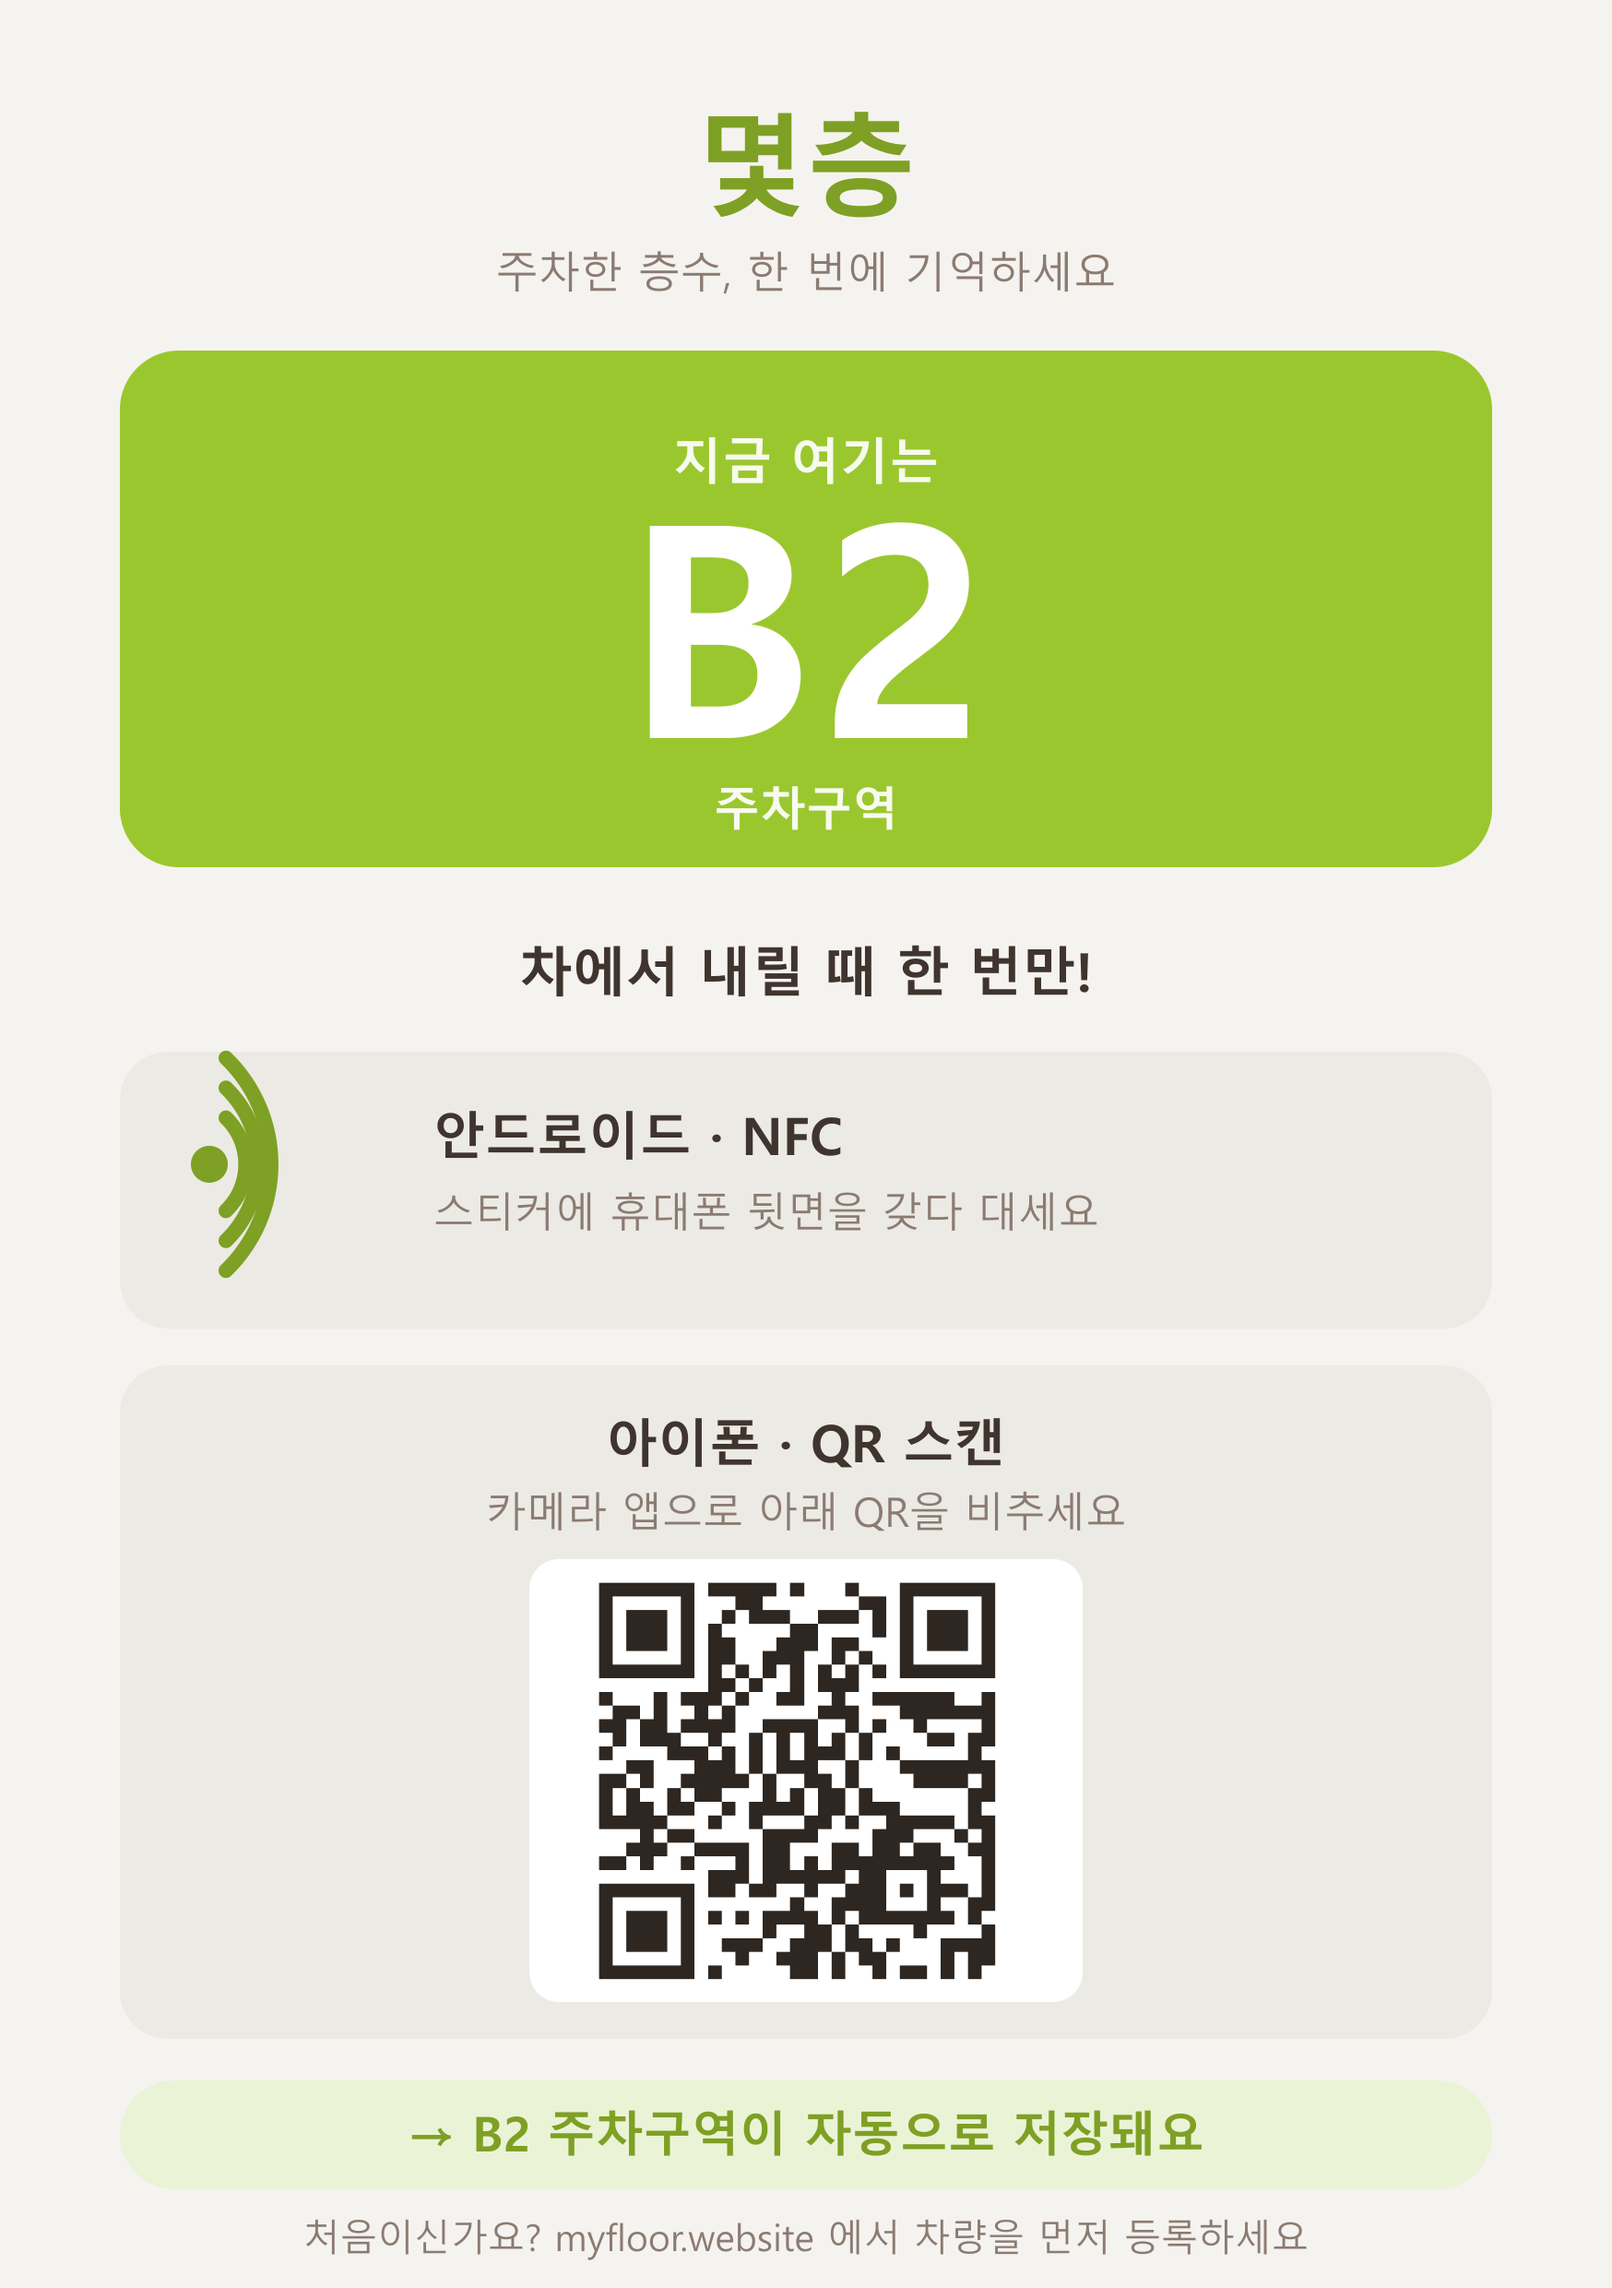
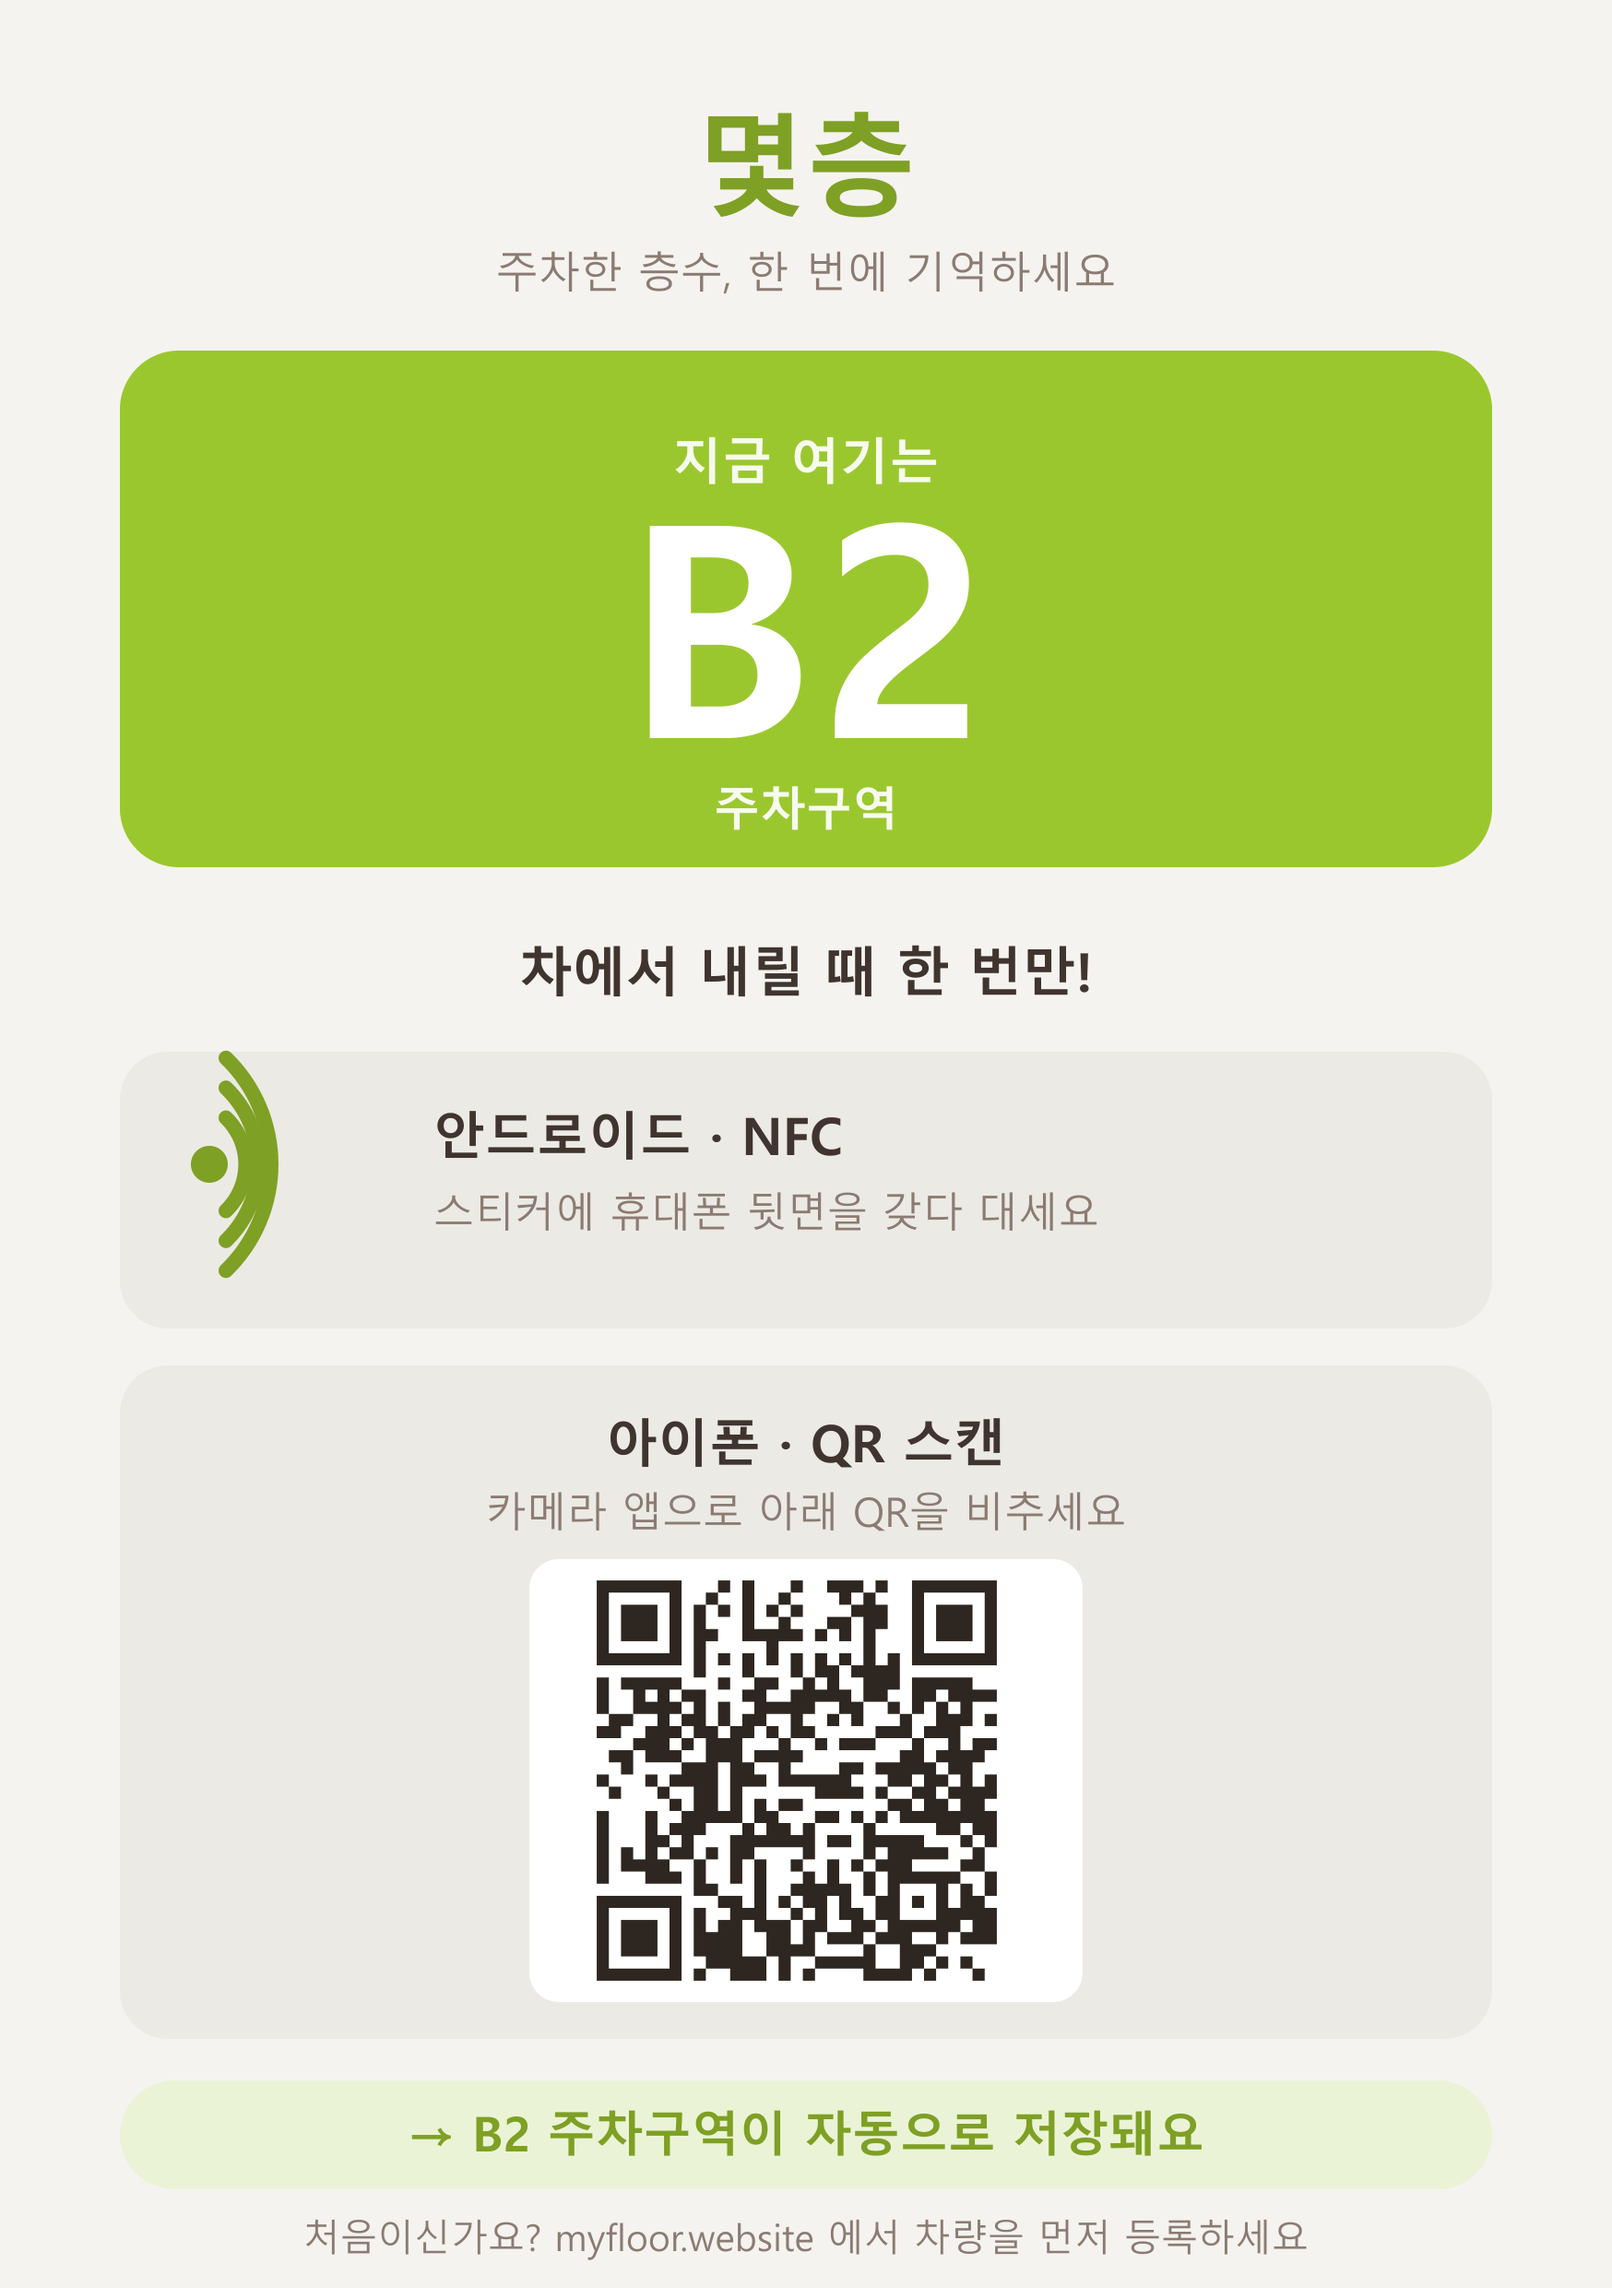
NFC/QR 태그 위조 방지: HMAC 서명 검증 추가
- src/lib/tagToken.ts: NFC_TAG_SECRET 기반 HMAC-SHA256 서명/검증
- /nfc 페이지에서 sig 서버 검증, 정품 태그만 통과
- gen-flyer.js: 서명된 URL(&sig=)로 QR 생성
- 비밀키 없이는 유효 태그 생성 불가 → 무단 복제 차단

Changed region(s): [[0.3707, 0.6831, 0.6178, 0.8694]]

diff --git a/scripts/gen-flyer.js b/scripts/gen-flyer.js
@@ -3,12 +3,34 @@
 //        node scripts/gen-flyer.js all        모든 층 일괄 생성
 const fs = require("fs");
 const path = require("path");
+const crypto = require("crypto");
 const QRCode = require("qrcode");
 const sharp = require("sharp");
 const { PDFDocument } = require("pdf-lib");
 
 const SITE = "https://myfloor.website";
 const OUT = path.join(__dirname, "..", "flyers");
+
+// .env.local에서 NFC_TAG_SECRET 로드 (서버 검증과 동일 키로 서명)
+(function loadEnv() {
+  if (process.env.NFC_TAG_SECRET) return;
+  try {
+    const env = fs.readFileSync(path.join(__dirname, "..", ".env.local"), "utf8");
+    const m = env.match(/^NFC_TAG_SECRET=(.+)$/m);
+    if (m) process.env.NFC_TAG_SECRET = m[1].trim();
+  } catch {}
+})();
+
+const SECRET = process.env.NFC_TAG_SECRET;
+if (!SECRET) {
+  console.error("NFC_TAG_SECRET이 없습니다 (.env.local 확인). 서명 없이 만들면 서버에서 거부됩니다.");
+  process.exit(1);
+}
+
+// 서버 src/lib/tagToken.ts의 signFloor와 동일한 로직
+function signFloor(floor) {
+  return crypto.createHmac("sha256", SECRET).update(floor).digest("base64url").slice(0, 16);
+}
 
 // 브랜드 컬러 (apartment.ts theme)
 const C = {
@@ -33,7 +55,7 @@ function esc(s) {
 }
 
 async function buildSvg(floor) {
-  const url = `${SITE}/nfc?floor=${floor}`;
+  const url = `${SITE}/nfc?floor=${floor}&sig=${signFloor(floor)}`;
   const qrDataUrl = await QRCode.toDataURL(url, {
     margin: 1,
     width: 560,

diff --git a/src/lib/tagToken.ts b/src/lib/tagToken.ts
@@ -1,0 +1,36 @@
+import { createHmac, timingSafeEqual } from "crypto";
+
+// 주의: 이 모듈은 서버에서만 사용할 것. NFC_TAG_SECRET이 클라이언트로
+// 노출되면 안 되므로 클라이언트 컴포넌트에서 import 금지.
+
+// NFC/QR 태그 위조 방지용 HMAC 서명.
+// 비밀키(NFC_TAG_SECRET)를 모르면 유효한 sig를 만들 수 없으므로
+// 외부에서 임의로 태그/QR을 생성해 무단 사용하는 것을 차단한다.
+
+function getSecret(): string {
+  const secret = process.env.NFC_TAG_SECRET;
+  if (!secret) {
+    throw new Error("NFC_TAG_SECRET 환경변수가 설정되지 않았습니다");
+  }
+  return secret;
+}
+
+/** 층 문자열에 대한 서명(base64url 앞 16자 = 96bit) 생성 */
+export function signFloor(floor: string): string {
+  return createHmac("sha256", getSecret())
+    .update(floor)
+    .digest("base64url")
+    .slice(0, 16);
+}
+
+/** 전달된 sig가 해당 층의 정품 서명과 일치하는지 검증 */
+export function verifyFloor(floor: string, sig: string | null | undefined): boolean {
+  if (!sig) return false;
+  const expected = signFloor(floor);
+  if (expected.length !== sig.length) return false;
+  try {
+    return timingSafeEqual(Buffer.from(expected), Buffer.from(sig));
+  } catch {
+    return false;
+  }
+}

diff --git a/src/app/nfc/page.tsx b/src/app/nfc/page.tsx
@@ -1,10 +1,13 @@
 import NfcClient from "./NfcClient";
+import { verifyFloor } from "@/lib/tagToken";
 
 export default async function NfcPage({
   searchParams,
 }: {
-  searchParams: Promise<{ floor?: string }>;
+  searchParams: Promise<{ floor?: string; sig?: string }>;
 }) {
-  const { floor } = await searchParams;
-  return <NfcClient floor={floor ?? null} />;
+  const { floor, sig } = await searchParams;
+  // 서명 검증: 정품 태그(올바른 sig)만 통과. 위조/무단 생성 차단.
+  const valid = !!floor && verifyFloor(floor, sig);
+  return <NfcClient floor={valid ? floor! : null} />;
 }
